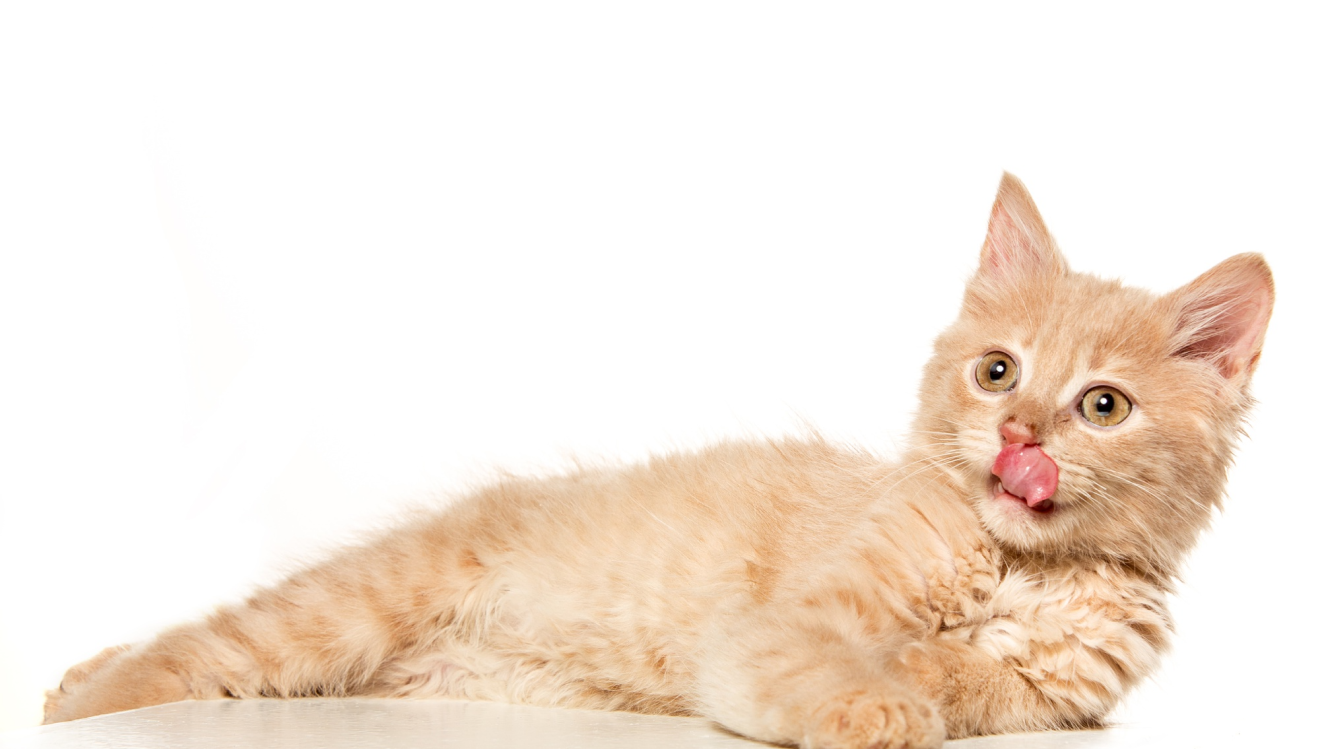
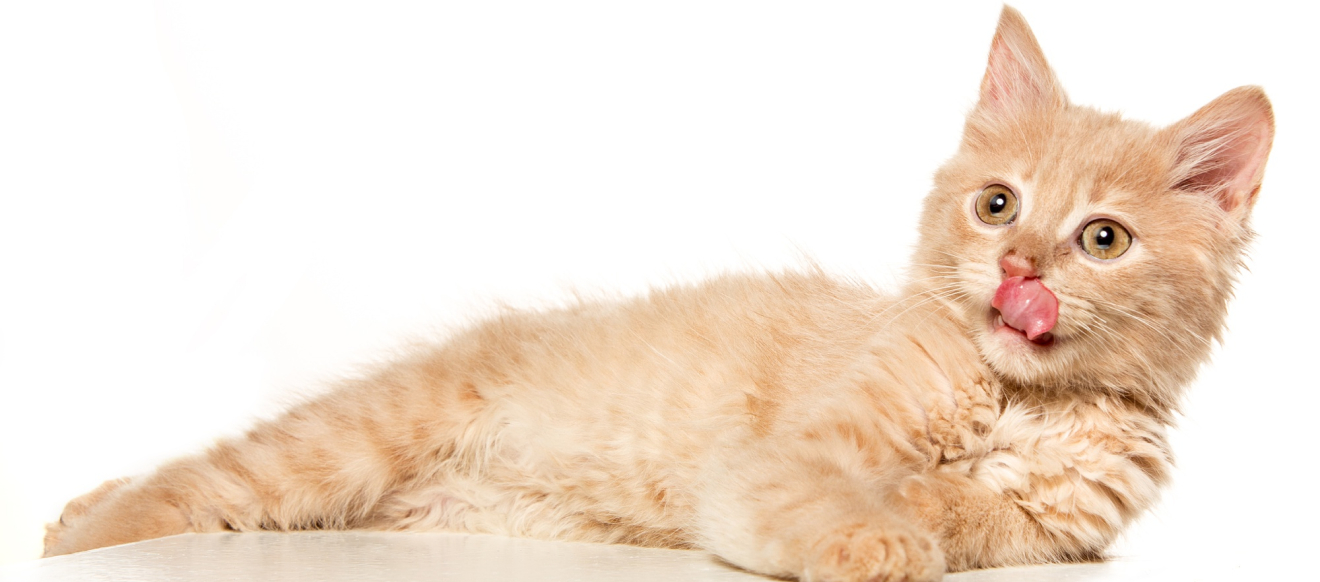
Header Completed

Changed region(s): [[0.0311, 0.0, 0.9939, 1.0]]

diff --git a/index.html b/index.html
@@ -1,0 +1,112 @@
+<!DOCTYPE html>
+<html lang="en" data-theme="light">
+
+<head>
+    <meta charset="UTF-8">
+    <meta name="viewport" content="width=device-width, initial-scale=1.0">
+    <link rel="preconnect" href="https://fonts.googleapis.com">
+    <link rel="preconnect" href="https://fonts.gstatic.com" crossorigin>
+    <link href="https://fonts.googleapis.com/css2?family=ADLaM+Display&display=swap" rel="stylesheet">
+    <link rel="preconnect" href="https://fonts.googleapis.com">
+    <link rel="preconnect" href="https://fonts.gstatic.com" crossorigin>
+    <link href="https://fonts.googleapis.com/css2?family=Sora:wght@100..800&display=swap" rel="stylesheet">
+    <script src="https://kit.fontawesome.com/1f03694f4b.js" crossorigin="anonymous"></script>
+    <script src="https://cdn.tailwindcss.com"></script>
+    <title>Assignment 3</title>
+    <style>
+        .font-ADlam-display {
+            font-family: "ADLaM Display", serif;
+            font-weight: 400;
+            font-style: normal;
+        }
+
+        .font-sora {
+            font-family: "Sora", serif;
+            font-optical-sizing: auto;
+            font-weight: 400;
+            font-style: normal;
+        }
+    </style>
+</head>
+
+<body class="font-sora">
+    <header>
+        <nav
+            class="flex justify-between items-center bg-[#FFF9F4] px-4 py-3 lg:px-36 lg:py-7 text-xl border border-solid border-[#111111] lg:border-0">
+            <div class="flex items-center">
+                <div class="mr-3"><a href=""><img src="c1-assets/logo-header.png" alt="Header Logo"></a></div>
+                <p class="hidden absolute lg:block lg:static"><a href="">Browse<span
+                            class="text-[#FFDC26]">4</span>Pets</a></p>
+            </div>
+            <div class="hidden absolute lg:block lg:static">
+                <ul class="flex">
+                    <li><a href="" class="mr-8">Find a pet</a></li>
+                    <li><a href="" class="mr-8">Breeds</a></li>
+                    <li><a href="">Contact us</a></li>
+                </ul>
+            </div>
+            <div class="hidden absolute lg:flex lg:static">
+                <button class="mr-4"><svg xmlns="http://www.w3.org/2000/svg" fill="none" viewBox="0 0 24 24"
+                        stroke-width="1.5" stroke="currentColor" class="size-6">
+                        <path stroke-linecap="round" stroke-linejoin="round"
+                            d="M14.857 17.082a23.848 23.848 0 0 0 5.454-1.31A8.967 8.967 0 0 1 18 9.75V9A6 6 0 0 0 6 9v.75a8.967 8.967 0 0 1-2.312 6.022c1.733.64 3.56 1.085 5.455 1.31m5.714 0a24.255 24.255 0 0 1-5.714 0m5.714 0a3 3 0 1 1-5.714 0" />
+                    </svg>
+                </button>
+                <button class="mr-4"><svg xmlns="http://www.w3.org/2000/svg" fill="none" viewBox="0 0 24 24"
+                        stroke-width="1.5" stroke="currentColor" class="size-6">
+                        <path stroke-linecap="round" stroke-linejoin="round"
+                            d="m21 21-5.197-5.197m0 0A7.5 7.5 0 1 0 5.196 5.196a7.5 7.5 0 0 0 10.607 10.607Z" />
+                    </svg>
+                </button>
+                <button class="mr-4 px-8 py-3 border border-solid rounded-lg border-[#FFDC26]"><a
+                        href="">Login</a></button>
+                <button class="px-8 py-3 border-0 rounded-lg bg-[#FFDC26]"><a href="">Register</a></button>
+            </div>
+            <div class="lg:hidden lg:absolute">
+                <button class="focus:outline-none peer"><i class="fa-solid fa-bars text-3xl"></i></button>
+                <ul
+                    class="text-justify hidden absolute peer-focus:block z-20 right-3 top-12 p-3 bg-[#FFF9F4] rounded-sm shadow-lg">
+                    <li><a href=""><svg xmlns="http://www.w3.org/2000/svg" fill="none" viewBox="0 0 24 24"
+                                stroke-width="1.5" stroke="currentColor" class="size-6">
+                                <path stroke-linecap="round" stroke-linejoin="round"
+                                    d="M14.857 17.082a23.848 23.848 0 0 0 5.454-1.31A8.967 8.967 0 0 1 18 9.75V9A6 6 0 0 0 6 9v.75a8.967 8.967 0 0 1-2.312 6.022c1.733.64 3.56 1.085 5.455 1.31m5.714 0a24.255 24.255 0 0 1-5.714 0m5.714 0a3 3 0 1 1-5.714 0" />
+                            </svg></a>
+                    </li>
+                    <li><a href=""><svg xmlns="http://www.w3.org/2000/svg" fill="none" viewBox="0 0 24 24"
+                                stroke-width="1.5" stroke="currentColor" class="size-6">
+                                <path stroke-linecap="round" stroke-linejoin="round"
+                                    d="m21 21-5.197-5.197m0 0A7.5 7.5 0 1 0 5.196 5.196a7.5 7.5 0 0 0 10.607 10.607Z" />
+                            </svg></a>
+                    </li>
+                    <li><a href="">Find a pet</a></li>
+                    <li><a href="">Breeds</a></li>
+                    <li><a href="">Contact us</a></li>
+                    <li><a href="">Login</a></li>
+                    <li><a href="">Register</a></li>
+                </ul>
+            </div>
+        </nav>
+        <div class="px-4 py-3 lg:px-36 lg:py-7 relative">
+            <div class="relative z-10">
+                <h2 class="font-ADlam-display text-4xl lg:text-6xl lg:max-w-2xl mt-8 lg:mt-24 mb-4">Pamper Your Pet,
+                    Because They Deserve the
+                    Best</h2>
+                <p class="lg:max-w-screen-sm lg:text-sm text-[#111111] opacity-70 mb-3 lg:mb-6">Discover a world of
+                    treats, toys, and
+                    essentials handpicked for your furry friends. Shop now and make tails wag with joy!</p>
+                <a href=""> <button class="px-8 py-3 border-0 rounded-lg bg-[#FFDC26]">Find a pet</button> </a>
+            </div>
+            <div class="absolute lg:top-[60%] top-[85%]">
+                <img src="c1-assets/cat-big.png" alt="Cat" class="w-full">
+            </div>
+        </div>
+    </header>
+    <main>
+
+    </main>
+    <footer>
+
+    </footer>
+</body>
+
+</html>

diff --git a/tailwind.config.js b/tailwind.config.js
@@ -1,0 +1,8 @@
+/** @type {import('tailwindcss').Config} */
+module.exports = {
+    content: ["./src/**/*.{html,js}"],
+    theme: {
+        extend: {},
+    },
+    plugins: [],
+}
